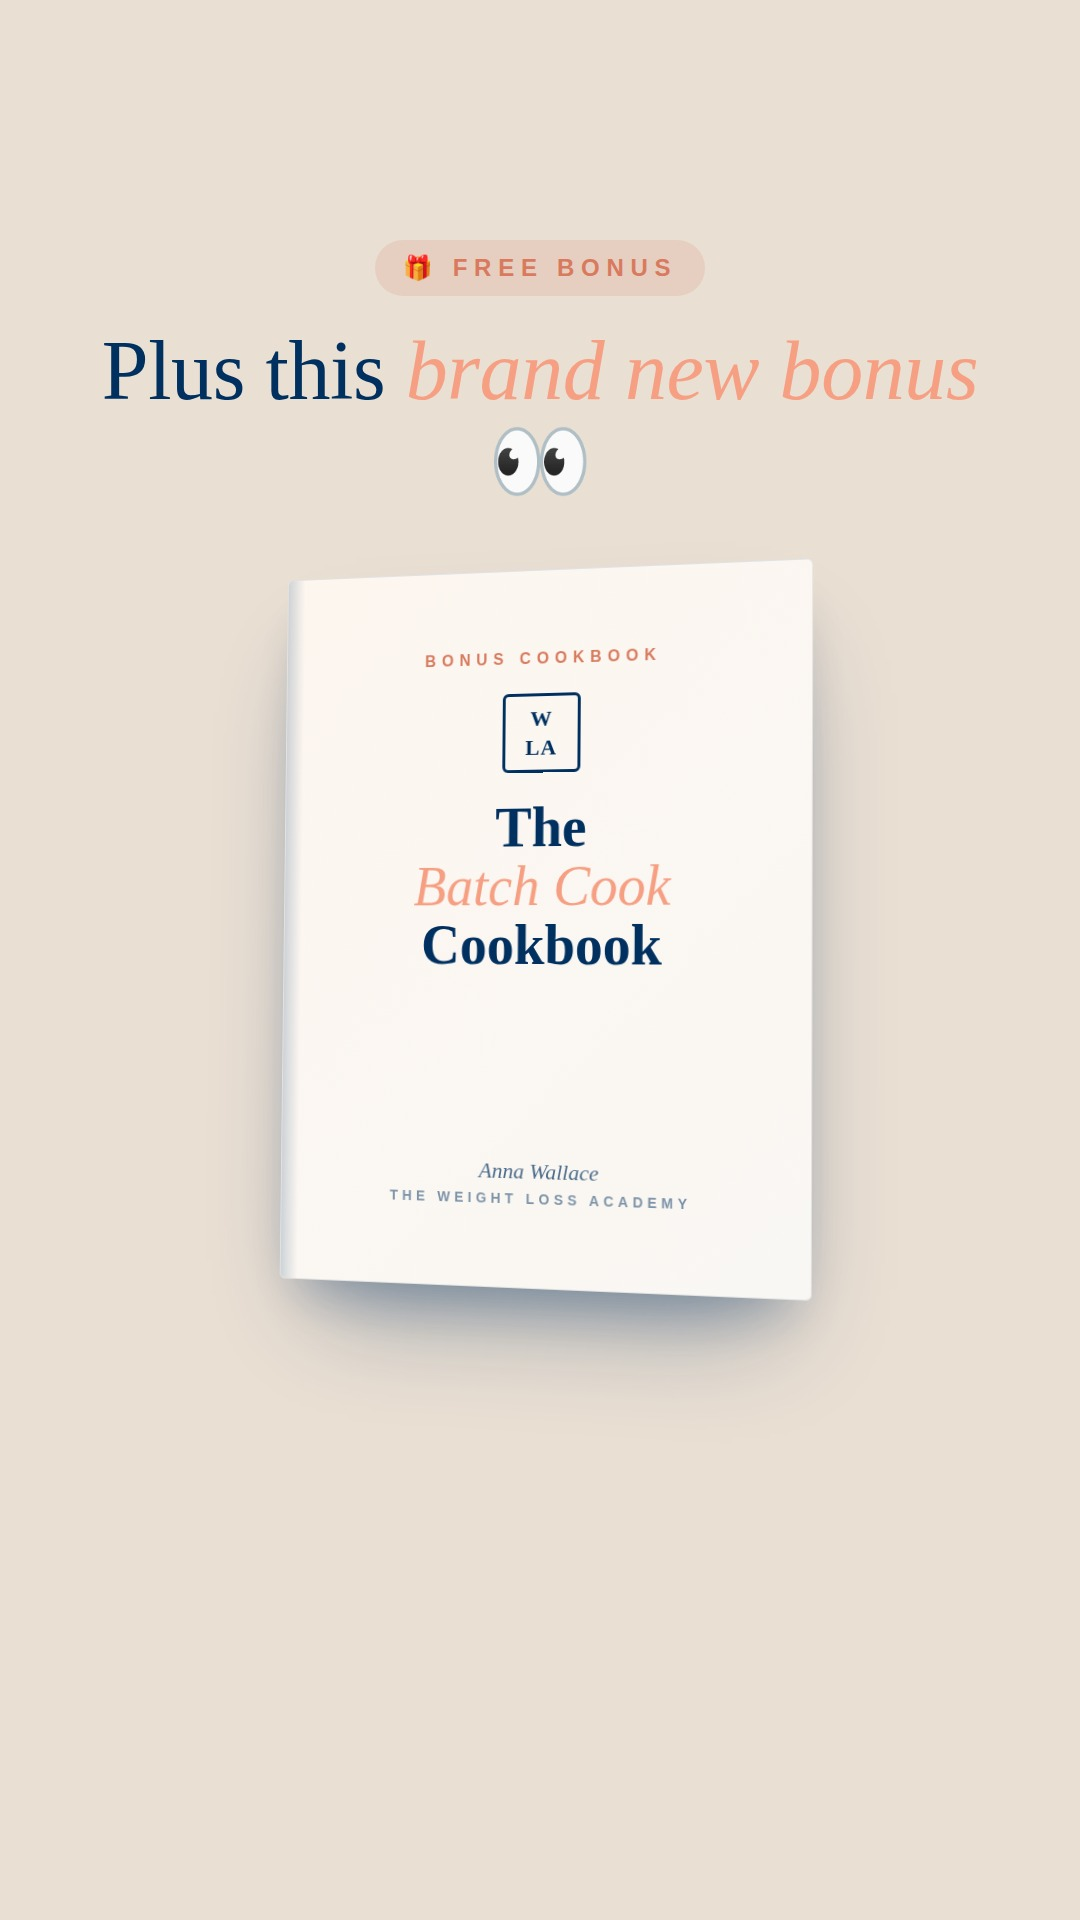
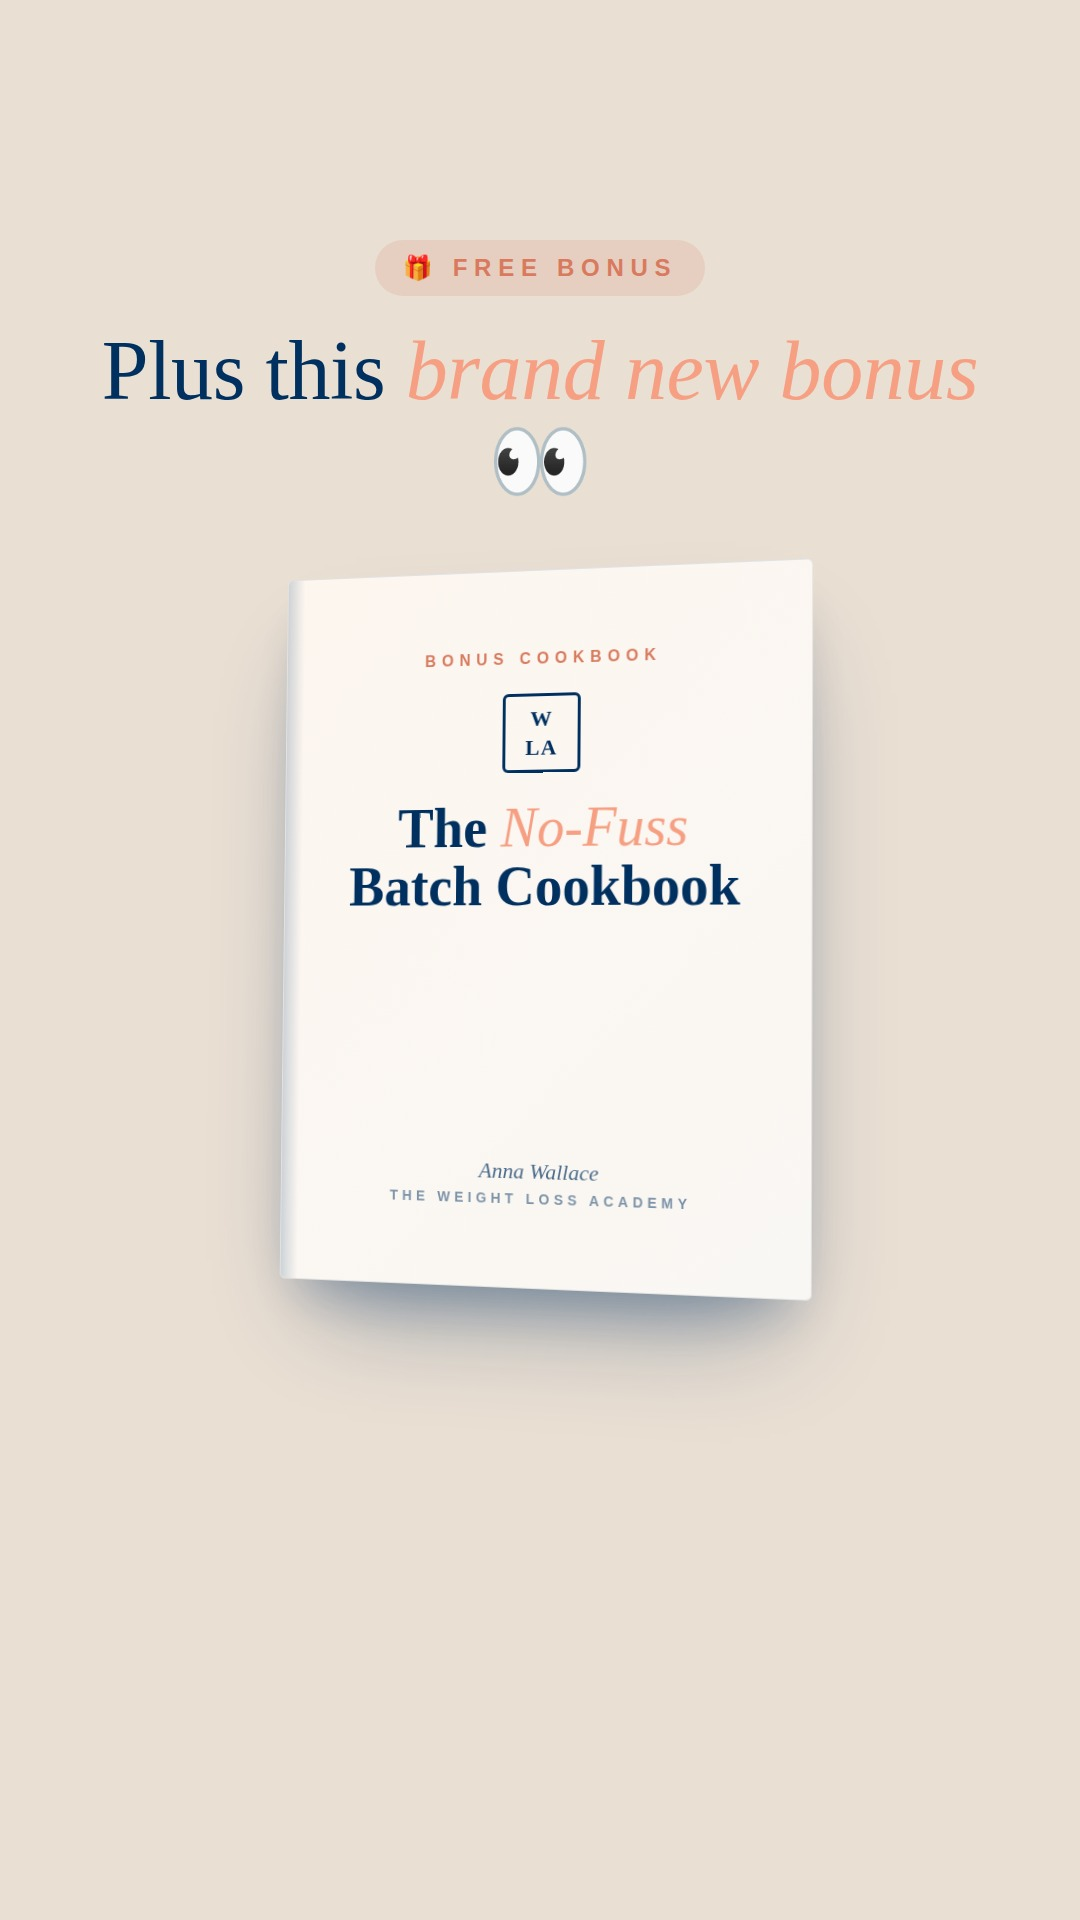
Schedule Wrap + cookbook rename to 'The No-Fuss Batch Cookbook'
- Sat 30th May / Wrap card: rewrite to "The scales are moving,
  clothes are fitting better, and you finish the week feeling
  lighter, more in control, and proud of yourself again."
- Cookbook renamed everywhere again: "The Batch Cook Cookbook" →
  "The No-Fuss Batch Cookbook". Inside card desc swapped to "Simple
  batch-cooked meals designed to save time, reduce temptation, and
  make weight loss easier to stick to." Hero bullet, TY welcome
  line and the IG cookbook story (re-rendered with the new name)
  all updated to match.

Changed region(s): [[0.3056, 0.4062, 0.6722, 0.5]]

diff --git a/free-reset/index.html b/free-reset/index.html
@@ -484,7 +484,7 @@ function Hero() {
             <li><span className="check"><Check /></span><span><strong>Daily live coaching</strong> from a Registered Nutritionist.</span></li>
             <li><span className="check"><Check /></span><span>Bank Holiday <strong>Prep Day</strong> so you start strong, not stressed.</span></li>
             <li><span className="check"><Check /></span><span>Private <strong>Facebook group</strong> + daily check-ins to keep you going.</span></li>
-            <li><span className="check"><Check /></span><span>Bonus <strong>The Batch Cook Cookbook</strong> — yours to keep.</span></li>
+            <li><span className="check"><Check /></span><span>Bonus <strong>The No-Fuss Batch Cookbook</strong> — yours to keep.</span></li>
           </ul>
           <div className="hero-info">
             <div className="hero-info-card">
@@ -723,7 +723,7 @@ function Inside() {
     { ic: <IcBook />,     t: '5 Day Reset Protocol Guide',        d: 'Your exact eating rhythm, macro balance and meal structure for the 5 days. Designed to cut sugar cravings within 72 hours and put real fat loss on the scale by Day 5.' },
     { ic: <IcLive />,     t: 'Live Daily Coaching',                d: 'Show up each day for a short live session with me. Q&A, mindset, the day\'s focus, and how to handle the inevitable wobble.' },
     { ic: <IcPrep />,     t: 'Bank Holiday Prep Day',              d: 'On Mon 25th May we prep together: shopping list, batch cook, swaps for tricky meals. You start the reset on Tuesday already winning.' },
-    { ic: <IcChef />,     t: 'The Batch Cook Cookbook',     d: 'A free bonus cookbook of simple, family friendly meals designed to save time, reduce food stress, and help you stay on track with your weight loss goals.', bonus: true },
+    { ic: <IcChef />,     t: 'The No-Fuss Batch Cookbook',  d: 'Simple batch-cooked meals designed to save time, reduce temptation, and make weight loss easier to stick to.', bonus: true },
     { ic: <IcWhatsApp />, t: 'Private Facebook Group',             d: 'Real-time support, the other women in your cohort, and a place to ask the questions you\'ve been Googling at 11pm.' },
     { ic: <IcCheckBox />, t: 'Daily Check-Ins',                    d: 'Daily accountability to keep you focused, consistent, and following through. Five days of support, momentum, and staying on track with your goals.' },
   ];
@@ -782,7 +782,7 @@ function Schedule() {
     { weekday: 'Wed', date: '27th May', label: 'Day 2',     what: 'Blood sugar starts to stabilise and the constant sugar cravings begin to quieten down. That intense 4pm pull for snacks starts losing its grip.' },
     { weekday: 'Thu', date: '28th May', label: 'Day 3',     what: 'Energy feels steadier and more consistent throughout the day. Less crashing, less sluggishness, and more feeling like yourself again.' },
     { weekday: 'Fri', date: '29th May', label: 'Day 4',     what: 'Bloating starts to settle and you begin feeling lighter, more comfortable, and less puffy in your clothes.' },
-    { weekday: 'Sat', date: '30th May', label: 'Wrap',      what: 'Final live, results, and exactly how to carry the next 4 weeks without starting over.' },
+    { weekday: 'Sat', date: '30th May', label: 'Wrap',      what: 'The scales are moving, clothes are fitting better, and you finish the week feeling lighter, more in control, and proud of yourself again.' },
   ];
   return (
     <section className="schedule" id="schedule">

diff --git a/free-reset/ty/index.html b/free-reset/ty/index.html
@@ -116,7 +116,7 @@ src="https://www.facebook.com/tr?id=1159782482636500&ev=PageView&noscript=1"
     <svg viewBox="0 0 24 24"><polyline points="4 12.5 10 18 20 6.5" /></svg>
   </div>
   <h1 class="ty-title serif">You're in. Welcome to the<br /><em>5 Day Reset.</em></h1>
-  <p class="ty-sub">Your welcome email is on its way. Inside, you'll find everything you need to access your tools: your <strong>private Facebook group</strong>, the <strong>5 Day Reset Protocol Guide</strong> and your bonus <strong>The Batch Cook Cookbook</strong>.</p>
+  <p class="ty-sub">Your welcome email is on its way. Inside, you'll find everything you need to access your tools: your <strong>private Facebook group</strong>, the <strong>5 Day Reset Protocol Guide</strong> and your bonus <strong>The No-Fuss Batch Cookbook</strong>.</p>
   <p class="ty-sub">Check your inbox now (also spam, Promotions or Updates) and add <strong>support@theweightloss-academy.com</strong> to your contacts so you don't miss a single daily live.</p>
 
   <div class="email-card">

diff --git a/ig-stories/04b-cookbook/index.html b/ig-stories/04b-cookbook/index.html
@@ -36,7 +36,7 @@
         <div class="book-top">
           <div class="book-eyebrow">Bonus Cookbook</div>
           <div class="book-mark"><span>W</span><span>LA</span></div>
-          <div class="book-title">The<br /><em>Batch Cook</em><br />Cookbook</div>
+          <div class="book-title">The <em>No-Fuss</em><br />Batch Cookbook</div>
         </div>
         <div class="book-bottom">
           <div class="book-bottom-line">Anna Wallace</div>
